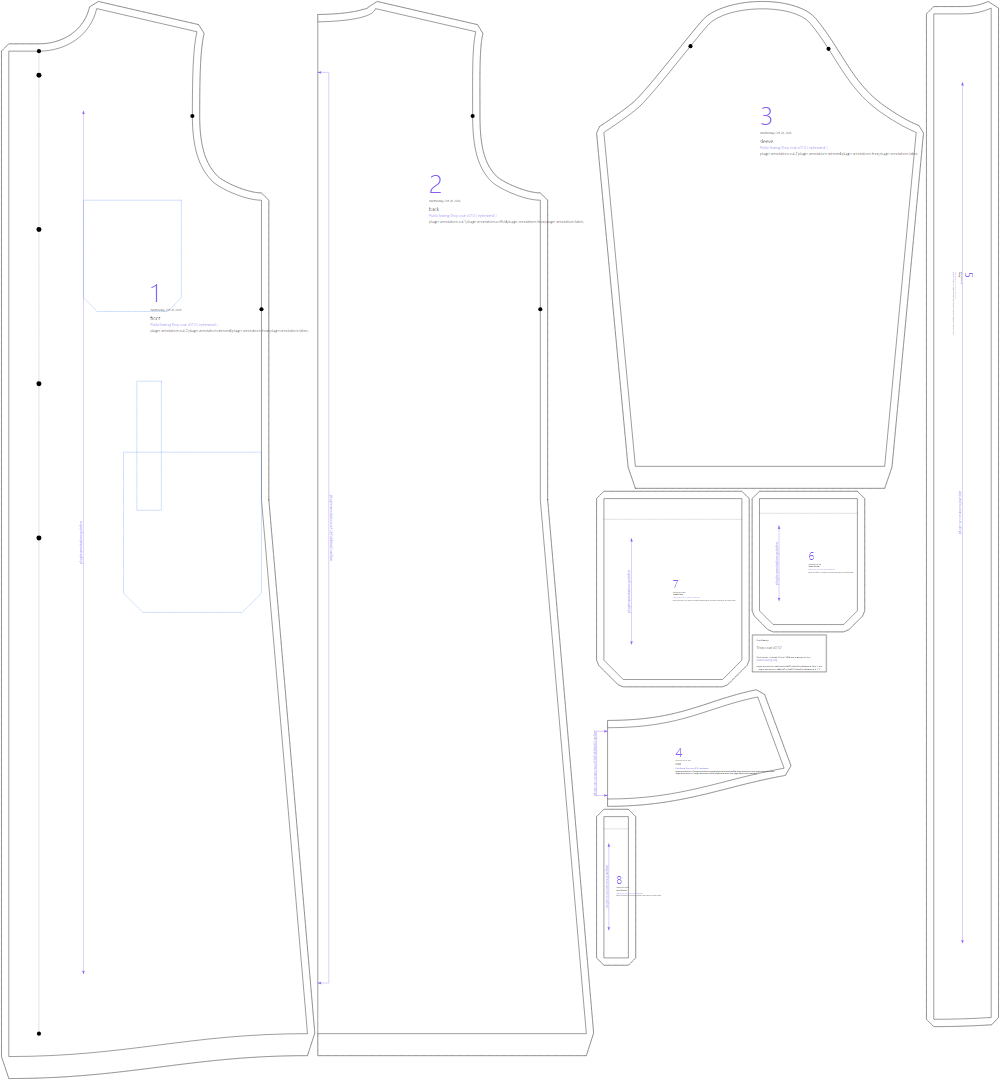
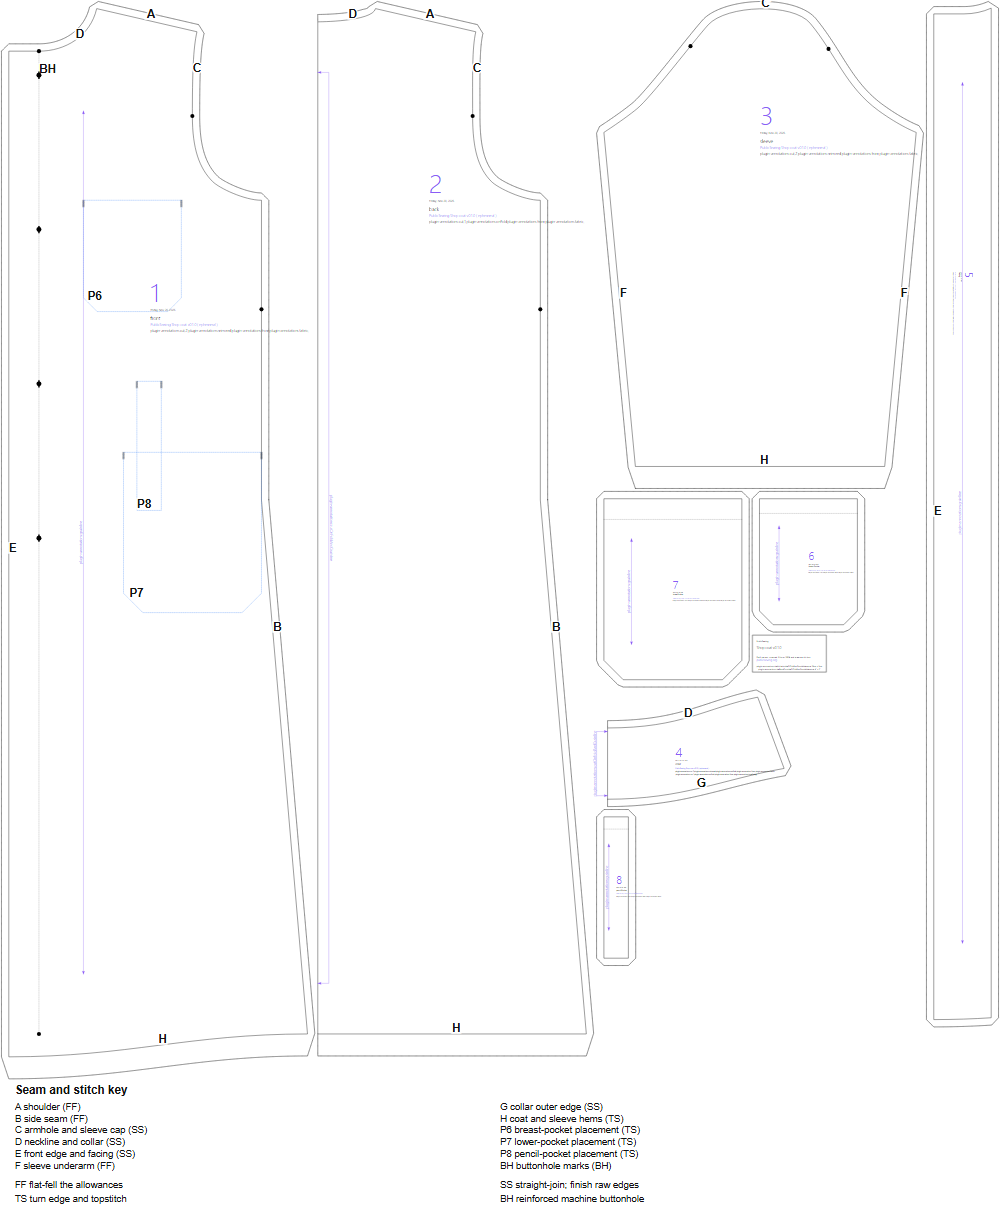
Map the shop coat on the chore coat's anchors, with its pencil pocket
Buttonhole marks are now drafted at its button stations.

diff --git a/designs/shop-coat/BRIEF.md b/designs/shop-coat/BRIEF.md
@@ -42,9 +42,14 @@ Named for that wider use: a long work overcoat (shop coat, lab coat, duster).
 - the shared coat checks;
 - the hem flares.
 
-## Construction
+## Construction (our words)
+The letters below identify matching seam lines in the pattern map. Numbers are printed on the pattern pieces. Stitch codes in the map and steps mean: **FF** flat-felled seam (join with a straight stitch, fold one allowance over the other, then topstitch it down); **SS** straight-stitch seam (finish the raw allowances as directed); **TS** visible topstitching close to a folded edge; **BH** machine buttonhole stitch. These are proposed sewing methods for this unsewn draft, the shared work-coat construction with the shop coat's extra pocket and length.
 
-1. Finish the breast, lower, and pencil-pocket tops. Sew the pencil pocket to its lower pocket before topstitching the assembled lower pocket and the breast pocket onto the fronts.
-2. Interface one collar layer and the front facings. Sew the shoulder and flared side seams, preserving the back-on-fold shape.
-3. Assemble and attach the swinging collar, then sew on the front facings and turn them. Set in the sleeves and close their underarm seams.
-4. Hem the long coat and sleeves. Work the four front buttonholes and sew on the buttons. This follows the shared work-coat construction with the shop coat's additional pocket and length.
+1. Interface the two facings **5** and one collar layer **4**.
+2. Hem the top edges of breast pocket **6**, lower pockets **7** and pencil pocket **8**. Sew the pencil pocket **8** to its lower pocket where mark **P8** shows on the front, then press the remaining allowances under and use **TS** to attach the pockets at marks **P6** and **P7** on fronts **1**.
+3. Join front **1** to back **2** at shoulders **A** with **FF**. Leave side seams **B** open for setting the sleeves flat.
+4. Join the two collar layers **4** along outer edge **G** with **SS**; trim, turn and press. Attach the under collar to neckline **D** of fronts **1** and back **2** with **SS**, matching centre back.
+5. Join facings **5** to front edges **E** of fronts **1** with **SS**, enclosing the collar ends at the top. Trim, turn, press, and finish the facings' inner raw edges.
+6. Set sleeves **3** into armholes **C** of fronts **1** and back **2** with **SS** while the underarm is open, matching the cap notches. Close sleeve underarm **F** and the flared side seam **B** in one run with **FF**, keeping the back on its fold.
+7. Turn up the hems of the long fronts **1**, back **2** and sleeves **3** and use **TS** along hem edges **H**.
+8. Work the four **BH** at the marked positions on the right front **1**; sew buttons at the marked centre-front line.
